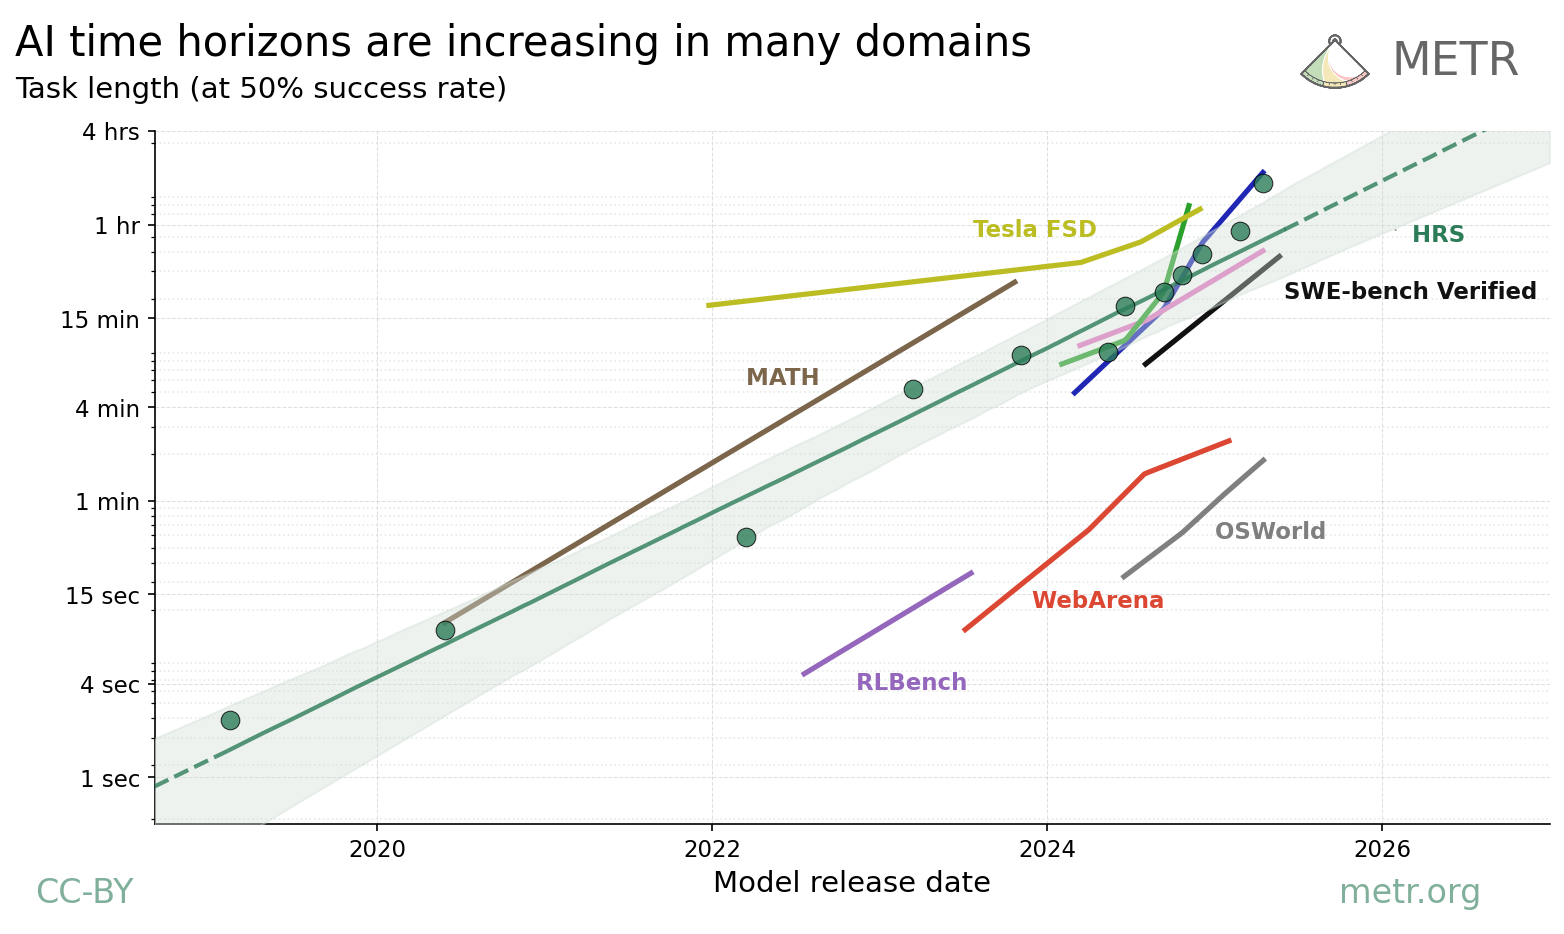
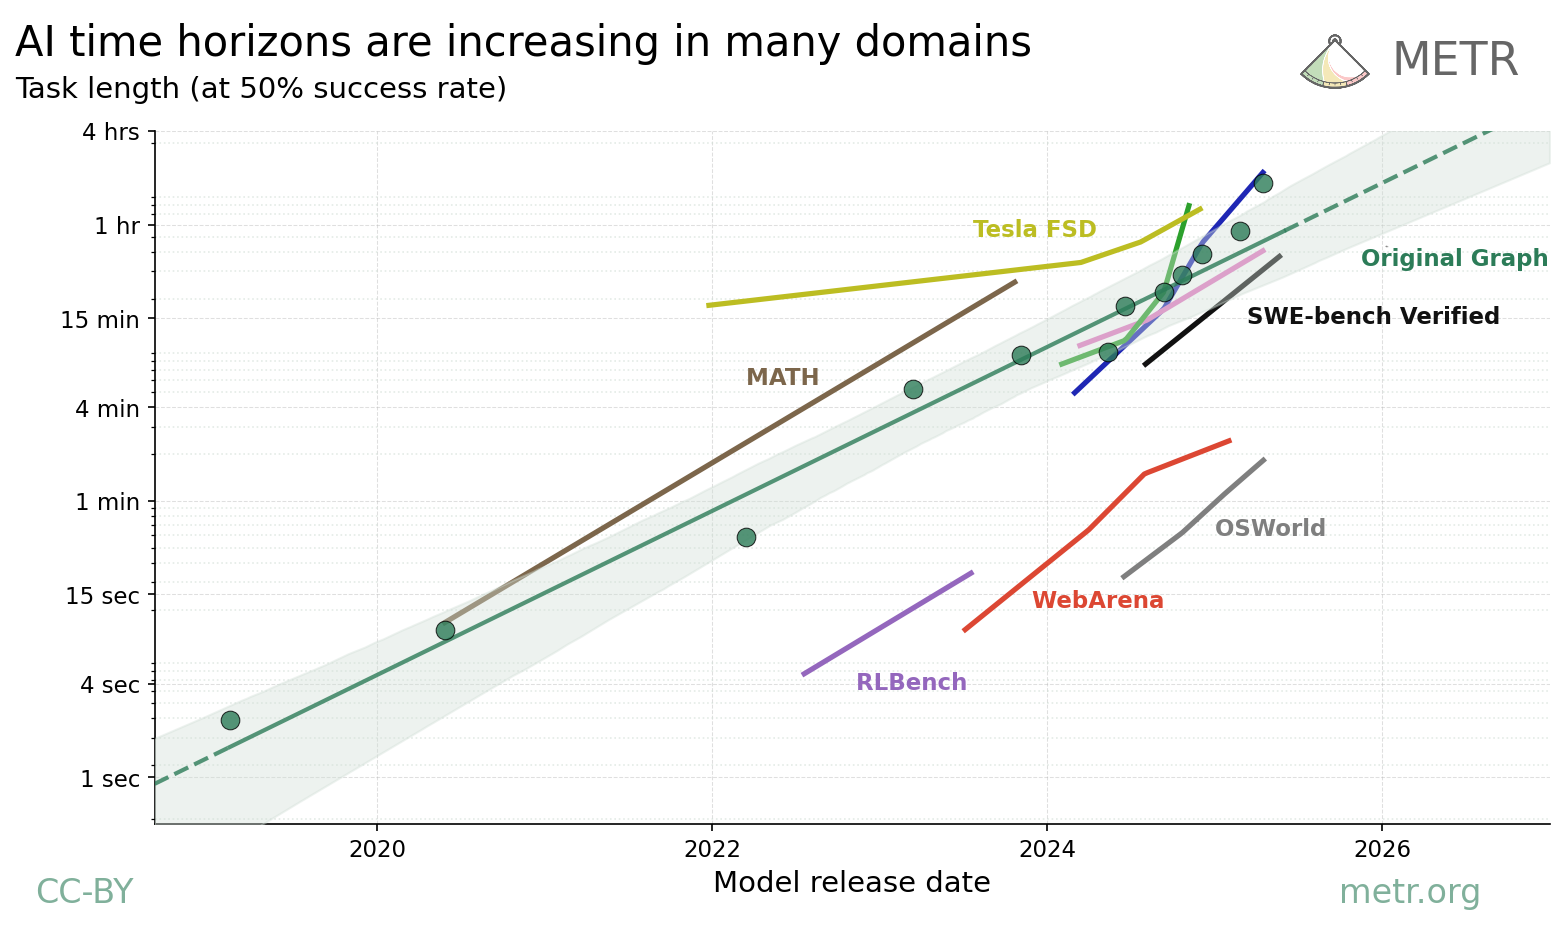
use agent data instead of calculating median. HRS -> Original graph. clean up some misc things

diff --git a/combined.py b/combined.py
@@ -71,10 +71,9 @@ class CombinedPlotParams:
     # Bootstrap CI parameters
     show_bootstrap_ci: bool = True  # Whether to overlay bootstrap confidence intervals
     bootstrap_data_file: str | None = None  # Path to bootstrap results CSV
-    agent_summaries_file: str | None = None  # Path to agent summaries (optional)
+    agent_summaries_file: str | None = 'data/external/logistic_fits/headline.csv'  # Path to pre-computed agent summaries
     confidence_level: float = 0.95  # Confidence level for bootstrap CI (e.g., 0.95 for 95%)
     exclude_agents: list[str] = field(default_factory=list)  # Agents to exclude from bootstrap
-    success_percent: int = 50  # Which percentile to use (50 = median)
     
     # Individual agent point parameters
     show_individual_agents: bool = False  # Show individual model points from bootstrap data
@@ -155,21 +154,20 @@ def add_bootstrap_confidence_region(
     max_date: pd.Timestamp,
     confidence_level: float,
     exclude_agents: list[str],
-    success_percent: int = 50,
     benchmark_data: pd.DataFrame = None,
     visual_start_date: str = None,
-) -> tuple[list[float], pd.DataFrame, list]:
+    agent_summaries_file: str | None = None,
+) -> tuple[list[float], pd.DataFrame, list, float | None]:
     """
     Add bootstrap confidence intervals and median trend to the plot.
     
     This function calculates and displays:
     1. A shaded confidence region showing uncertainty in AI progress trends
-    2. A median trend line from bootstrap samples
+    2. A single trend line fitted to pre-computed agent summaries
     3. Collects data for individual agent points (if requested)
     
-    The bootstrap results contain multiple samples (rows) with performance values
-    for each agent (columns). This function fits exponential trends to each sample
-    and calculates confidence bounds.
+    The function now uses pre-computed agent summaries for the main trend line,
+    while bootstrap results are only used for confidence interval calculation.
     
     Args:
         ax: Matplotlib axes to plot on
@@ -179,9 +177,9 @@ def add_bootstrap_confidence_region(
         max_date: End date for confidence region projection
         confidence_level: Confidence level (e.g., 0.95 for 95% CI)
         exclude_agents: List of agent names to exclude from analysis
-        success_percent: Which percentile to use (e.g., 50 for median)
         benchmark_data: Optional benchmark data (not currently used)
         visual_start_date: Start date for visualization (defaults to after_date if not provided)
+        agent_summaries_file: Path to pre-computed agent summaries CSV file
         
     Returns:
         Tuple of:
@@ -195,26 +193,12 @@ def add_bootstrap_confidence_region(
     focus_agents = [agent for agent in focus_agents if agent not in exclude_agents]
     doubling_times = []
     
-    # First, collect median performance for each agent across all bootstrap samples
-    # This will be used for plotting individual agent points
-    agent_data = []
-    for agent in focus_agents:
-        col_name = f"{agent}_p{success_percent}"
-        if col_name not in bootstrap_results.columns:
-            continue
-        
-        # Calculate median value across all bootstrap samples for this agent
-        agent_values = pd.to_numeric(bootstrap_results[col_name], errors="coerce")
-        median_val = agent_values.median()
-        
-        if not pd.isna(median_val) and median_val > 0:
-            agent_data.append({
-                'agent': agent,
-                'release_date': dates[agent],
-                f'p{success_percent}': median_val
-            })
+    # Load pre-computed agent summaries
+    agent_summary_df = pd.read_csv(agent_summaries_file)
     
-    agent_summary_df = pd.DataFrame(agent_data)
+    # Filter by focus agents and convert dates
+    agent_summary_df = agent_summary_df[agent_summary_df['agent'].isin(focus_agents)]
+    agent_summary_df['release_date'] = pd.to_datetime(agent_summary_df['release_date'])
     
     hrs_labels = []  # Store HRS labels to return
     # Now calculate confidence bounds by fitting trends to each bootstrap sample
@@ -229,6 +213,20 @@ def add_bootstrap_confidence_region(
         freq="D",
     )
     predictions = np.zeros((n_bootstraps, len(time_points)))
+       
+    # Filter for valid values
+    valid_mask = (agent_summary_df['p50'] > 0) & \
+                 (~agent_summary_df['p50'].isna())
+    valid_agents = agent_summary_df[valid_mask]
+    
+    if len(valid_agents) < 2:
+        raise ValueError(f"Not enough valid agents to fit trend line. Found {len(valid_agents)} valid agents, need at least 2")
+    
+    main_reg, _ = fit_trendline(
+        valid_agents['p50'],
+        valid_agents['release_date'],
+        log_scale=True
+    )
     
     # Fit exponential trend to each bootstrap sample
     valid_samples = 0
@@ -238,7 +236,7 @@ def add_bootstrap_confidence_region(
         valid_dates = []
         
         for agent in focus_agents:
-            col_name = f"{agent}_p{success_percent}"
+            col_name = f"{agent}_p50"
             if col_name not in bootstrap_results.columns:
                 continue
                 
@@ -299,8 +297,9 @@ def add_bootstrap_confidence_region(
             zorder=10  # Behind benchmark lines but above grid
         )
         
-        # Plot median trend line from bootstrap predictions
-        median_predictions = np.nanmedian(predictions, axis=0)
+        # Use the single fitted trend line for predictions
+        time_x = date2num(time_points)
+        median_predictions = np.exp(main_reg.predict(time_x.reshape(-1, 1)))
         
         # Determine which agents are included in the data to find the actual data range
         included_agents_dates = [pd.to_datetime(dates[agent]) for agent in focus_agents 
@@ -308,6 +307,7 @@ def add_bootstrap_confidence_region(
         if included_agents_dates:
             data_start = min(included_agents_dates)
             data_end = max(included_agents_dates)
+            print(data_start, data_end)
             
             # Create masks for solid vs dashed portions
             # Solid portion is between first and last actual data points
@@ -332,9 +332,10 @@ def add_bootstrap_confidence_region(
                 hrs_label_y = median_predictions[mask_solid][-1]
                 
                 # Manual x-axis adjustment for HRS label
-                hrs_label_x += pd.Timedelta(days=240)  
+                hrs_label_x += pd.Timedelta(days=220)  
+                hrs_label_y *= 0.8
                 
-                hrs_text = ax.text(hrs_label_x, hrs_label_y, "  HRS", 
+                hrs_text = ax.text(hrs_label_x, hrs_label_y, "  Original Graph", 
                                  color="#2c7c58", fontsize=11, 
                                  va='center', ha='left',
                                  weight='bold')
@@ -514,7 +515,7 @@ def plot_combined(df, output_file,
                 # Add bootstrap confidence region
                 # Use x-axis start for visualization to prevent cutoff
                 visual_start = params.xbound[0] if params.xbound else "2018-09-03"
-                doubling_times, agent_summary_df, hrs_labels = add_bootstrap_confidence_region(
+                doubling_times, agent_summary_df, hrs_labels= add_bootstrap_confidence_region(
                     ax=ax,
                     bootstrap_results=bootstrap_results,
                     release_dates=release_dates,
@@ -522,9 +523,9 @@ def plot_combined(df, output_file,
                     max_date=max_date,
                     confidence_level=params.confidence_level,
                     exclude_agents=params.exclude_agents,
-                    success_percent=params.success_percent,
                     benchmark_data=benchmark_data,
                     visual_start_date=visual_start,
+                    agent_summaries_file=params.agent_summaries_file,
                 )
                 
                 # Add HRS labels to the list of labels to adjust
@@ -546,7 +547,7 @@ def plot_combined(df, output_file,
                     # First, collect all agent data with dates and values
                     agent_data_list = []
                     for agent in focus_agents:
-                        col_name = f"{agent}_p{params.success_percent}"
+                        col_name = f"{agent}_p50"
                         if col_name in bootstrap_results.columns:
                             # Get median value across bootstrap samples
                             agent_values = pd.to_numeric(bootstrap_results[col_name], errors="coerce")
@@ -753,8 +754,8 @@ def plot_combined(df, output_file,
                     elif bench == 'tesla_fsd':
                         label_y *= 2 
                     elif bench == 'swe_bench_verified':
-                        label_y *= 1.3  
-                        label_x += pd.Timedelta(days=120)  
+                        label_y *= 0.9  
+                        label_x += pd.Timedelta(days=40)  
                     elif bench == 'webarena':
                         label_y *= 0.3
                         label_x += pd.Timedelta(days=-180)
@@ -921,9 +922,10 @@ def main():
     # Configure bootstrap CI data paths
     bootstrap_data_file = 'data/external/bootstrap/headline.csv'
     release_dates_file = 'data/external/release_dates.yaml'
+    agent_summaries_file = 'data/external/logistic_fits/headline.csv'
     
     # Check if bootstrap files exist
-    show_bootstrap = os.path.exists(bootstrap_data_file) and os.path.exists(release_dates_file)
+    show_bootstrap = os.path.exists(bootstrap_data_file) and os.path.exists(release_dates_file) and os.path.exists(agent_summaries_file)
     
     if show_bootstrap:
         print(f"Found bootstrap data at {bootstrap_data_file}")
@@ -931,7 +933,7 @@ def main():
         print("Bootstrap data not found, plotting benchmarks only")
     
     # Get configuration values with fallbacks
-    title = "AI time horizons are increasing in many domains" # !!!! A/B testing OPTION
+    title = "AI time horizons are increasing in many domains" 
     x_lim_start = '2018-09-03'
     x_lim_end = '2027-01-01'
     
@@ -939,17 +941,16 @@ def main():
     params = CombinedPlotParams(
         # Benchmark settings
         hide_benchmarks=["hcast_r_s", "hcast_r_s_full_method", "video_mme", "gpqa", "aime"], 
-        show_points_level=ShowPointsLevel.NONE,  # Show frontier points only !!!! A/B testing OPTION
+        show_points_level=ShowPointsLevel.NONE,  # Show frontier points  
         verbose=False,
         
         # Bootstrap CI settings
         show_bootstrap_ci=show_bootstrap,
         bootstrap_data_file=bootstrap_data_file if show_bootstrap else None,
-        agent_summaries_file=None,  # Not needed - we extract from bootstrap data
+        agent_summaries_file=agent_summaries_file if show_bootstrap else None,
         confidence_level=0.95,  # 95% confidence interval
         exclude_agents=[],  # Include all agents (GPT-2, GPT-3, etc.)
-        success_percent=50,  # Use median (50th percentile)
-        
+  
         # Visual settings
         show_individual_agents=True,  # Show red dots for individual models
         show_model_names=args.model_names,  # Show model names based on command-line flag
